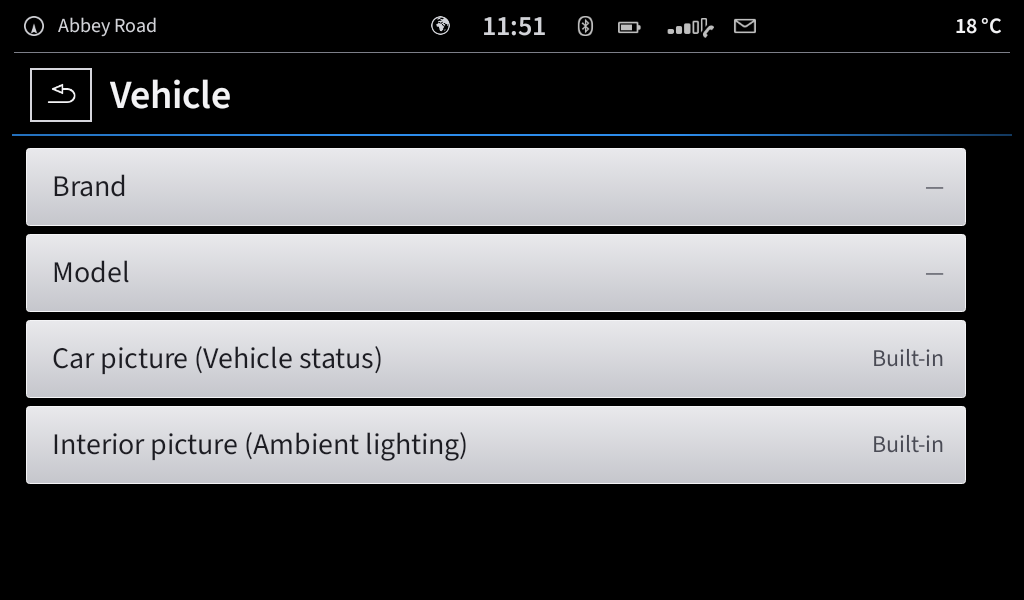
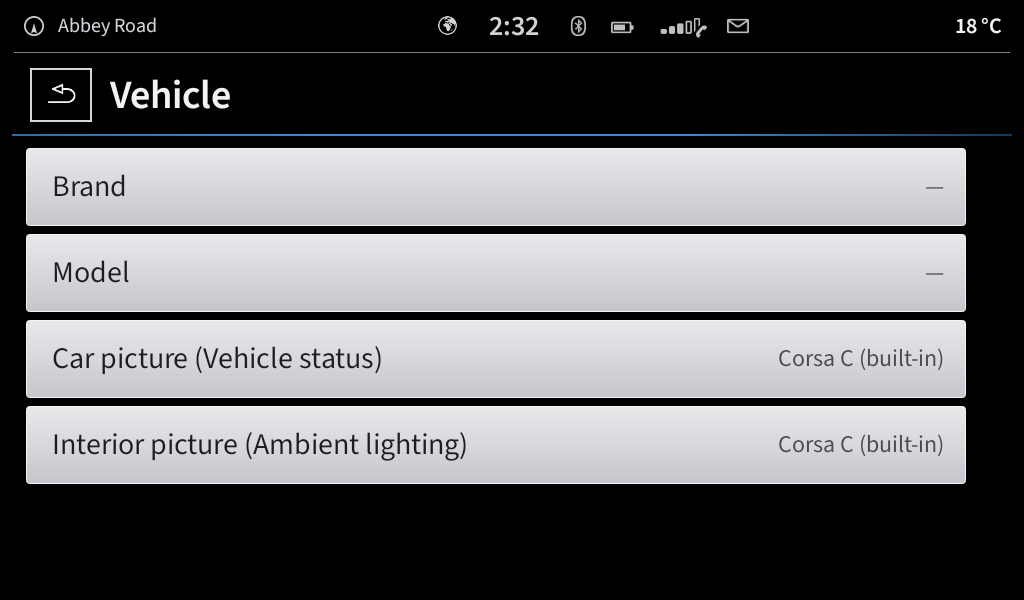
Car pictures: 'No picture selected' by default; Corsa C as a built-in choice
Until a picture is chosen, Vehicle status and Ambient lighting show an amber
warning triangle with 'No picture selected' and where to choose one. The
picture page in Setup -> Vehicle offers Corsa C (built-in), No picture, and
importing a picture from the unit or USB. Pictures imported earlier are kept.

Claude-Session: https://claude.ai/code/session_0111hCwS1Z8expNncaE3Z6rw

diff --git a/app/src/main/java/com/thecarlauncher/util/CarImages.java b/app/src/main/java/com/thecarlauncher/util/CarImages.java
@@ -5,15 +5,21 @@ import android.graphics.Bitmap;
 import android.graphics.BitmapFactory;
 import android.net.Uri;
 
+import android.graphics.Canvas;
+import android.graphics.Paint;
+import android.graphics.Path;
+
 import com.thecarlauncher.R;
+import com.thecarlauncher.mib.Mib;
 
 import java.io.File;
 import java.io.FileOutputStream;
 import java.io.InputStream;
 
 /**
- * The car pictures used around the launcher (Vehicle status, ambient lighting). The owner can
- * replace either one with a picture from the unit's storage; otherwise the built-in ones are used.
+ * The car pictures used around the launcher (Vehicle status, ambient lighting). Until one is
+ * chosen in Setup → Vehicle a "no picture selected" placeholder is shown. The choice is either a
+ * built-in set (Corsa C) or a picture imported from the unit's storage.
  */
 public final class CarImages {
     public static final int EXTERIOR = 0, INTERIOR = 1;
@@ -25,16 +31,85 @@ public final class CarImages {
         return new File(c.getFilesDir(), which == EXTERIOR ? "car_exterior.png" : "car_interior.jpg");
     }
 
-    public static boolean isCustom(Context c, int which) { return file(c, which).exists(); }
+    public static final String NONE = "none", BUILTIN = "corsa_c", CUSTOM = "custom";
 
-    /** The owner's picture if set, else the built-in one. */
+    private static String key(int which) { return which == EXTERIOR ? "car_img_exterior" : "car_img_interior"; }
+
+    /** NONE, BUILTIN or CUSTOM. */
+    public static String mode(Context c, int which) {
+        String m = Prefs.str(c, key(which), null);
+        if (m == null) m = file(c, which).exists() ? CUSTOM : NONE; // pictures imported before this setting
+        if (CUSTOM.equals(m) && !file(c, which).exists()) m = NONE;
+        return m;
+    }
+
+    public static boolean isCustom(Context c, int which) { return CUSTOM.equals(mode(c, which)); }
+
+    /** Short description for the settings row. */
+    public static String label(Context c, int which) {
+        String m = mode(c, which);
+        if (BUILTIN.equals(m)) return Mib.t(c, "Corsa C (ugrađena)", "Corsa C (built-in)");
+        if (CUSTOM.equals(m)) return Mib.t(c, "Uvezena slika", "Imported picture");
+        return Mib.t(c, "Nije izabrana", "Not selected");
+    }
+
+    /** The chosen picture, or the "no picture selected" placeholder. */
     public static Bitmap get(Context c, int which) {
-        File f = file(c, which);
-        if (f.exists()) {
-            Bitmap b = BitmapFactory.decodeFile(f.getPath());
+        String m = mode(c, which);
+        if (CUSTOM.equals(m)) {
+            Bitmap b = BitmapFactory.decodeFile(file(c, which).getPath());
             if (b != null) return b;
+        } else if (BUILTIN.equals(m)) {
+            return builtin(c, which);
         }
+        return placeholder(c, which);
+    }
+
+    public static Bitmap builtin(Context c, int which) {
         return BitmapFactory.decodeResource(c.getResources(), which == EXTERIOR ? R.drawable.car_exterior : R.drawable.car_interior);
+    }
+
+    public static void useBuiltin(Context c, int which) {
+        file(c, which).delete();
+        Prefs.put(c, key(which), BUILTIN);
+    }
+
+    /** Amber warning triangle with "No picture selected" and where to choose one. */
+    public static Bitmap placeholder(Context c, int which) {
+        int w = 1200, h = 720;
+        Bitmap b = Bitmap.createBitmap(w, h, Bitmap.Config.ARGB_8888);
+        Canvas cv = new Canvas(b);
+        if (which == INTERIOR) cv.drawColor(0xFF0B0B0E);
+        float cx = which == EXTERIOR ? w * 0.55f : w / 2f, top = which == EXTERIOR ? h * 0.30f : h * 0.24f;
+        float side = 190f, th = side * 0.866f;
+        Paint p = new Paint(Paint.ANTI_ALIAS_FLAG);
+        p.setColor(0xFFF2A516);
+        p.setStyle(Paint.Style.STROKE);
+        p.setStrokeWidth(14f);
+        p.setStrokeJoin(Paint.Join.ROUND);
+        Path tri = new Path();
+        tri.moveTo(cx, top);
+        tri.lineTo(cx + side / 2f, top + th);
+        tri.lineTo(cx - side / 2f, top + th);
+        tri.close();
+        cv.drawPath(tri, p);
+        p.setStyle(Paint.Style.FILL);
+        p.setStrokeCap(Paint.Cap.ROUND);
+        cv.drawRoundRect(new android.graphics.RectF(cx - 8, top + th * 0.32f, cx + 8, top + th * 0.70f), 8, 8, p);
+        cv.drawCircle(cx, top + th * 0.84f, 10f, p);
+        Paint t = new Paint(Paint.ANTI_ALIAS_FLAG);
+        t.setTextAlign(Paint.Align.CENTER);
+        t.setColor(0xFFFFFFFF);
+        t.setTextSize(54f);
+        try {
+            t.setTypeface(Mib.semibold(c));
+        } catch (Exception ignored) {
+        }
+        cv.drawText(Mib.t(c, "Nije izabrana slika", "No picture selected"), cx, top + th + 90f, t);
+        t.setColor(0xFFB9BBC3);
+        t.setTextSize(36f);
+        cv.drawText(Mib.t(c, "Podešavanje → Vozilo", "Setup → Vehicle"), cx, top + th + 145f, t);
+        return b;
     }
 
     /** Copies a picked image (scaled down to at most 1600 px); true when it was usable. */
@@ -58,13 +133,16 @@ public final class CarImages {
             // PNG keeps a cut-out car's transparent background; the cabin photo is a JPEG.
             b.compress(which == EXTERIOR ? Bitmap.CompressFormat.PNG : Bitmap.CompressFormat.JPEG, 92, fo);
             fo.close();
+            Prefs.put(c, key(which), CUSTOM);
             return true;
         } catch (Exception e) {
             return false;
         }
     }
 
+    /** Back to "no picture selected". */
     public static void reset(Context c, int which) {
         file(c, which).delete();
+        Prefs.put(c, key(which), NONE);
     }
 }

diff --git a/app/src/main/java/com/thecarlauncher/screens/SettingsScreen.java b/app/src/main/java/com/thecarlauncher/screens/SettingsScreen.java
@@ -905,27 +905,10 @@ public class SettingsScreen extends Screen {
         });
     }
 
-    /** Choose a picture from storage, or go back to the built-in one. */
+    /** Opens the picture page: built-in Corsa C, no picture, or one imported from storage. */
     private void pictureRow(String label, final int which) {
-        final boolean custom = com.thecarlauncher.util.CarImages.isCustom(act, which);
-        action(label, custom ? s("Sopstvena slika", "Own picture") : s("Ugrađena", "Built-in"), new Runnable() {
-            public void run() {
-                if (!custom) {
-                    pick(which);
-                    return;
-                }
-                Dialogs.choose(act, s("Slika", "Picture"), new String[]{s("Izaberi drugu sliku", "Choose another picture"),
-                        s("Vrati ugrađenu", "Back to built-in")}, -1, new Dialogs.Chosen() {
-                    public void onChosen(int i) {
-                        if (i == 0) pick(which);
-                        else {
-                            com.thecarlauncher.util.CarImages.reset(act, which);
-                            act.carPicturesChanged();
-                            refreshKeep();
-                        }
-                    }
-                });
-            }
+        action(label, com.thecarlauncher.util.CarImages.label(act, which), new Runnable() {
+            public void run() { pick(which); }
         });
     }
 
@@ -984,6 +967,36 @@ public class SettingsScreen extends Screen {
                 }
             });
         }
+        final String mode = com.thecarlauncher.util.CarImages.mode(act, which);
+        // Built-in set, then "none", then importing.
+        LinearLayout corsa = choice(s("Corsa C (ugrađena)", "Corsa C (built-in)"),
+                com.thecarlauncher.util.CarImages.BUILTIN.equals(mode), new Runnable() {
+                    public void run() {
+                        com.thecarlauncher.util.CarImages.useBuiltin(act, which);
+                        pictureApplied();
+                    }
+                });
+        ImageView ct = new ImageView(act);
+        ct.setScaleType(ImageView.ScaleType.CENTER_CROP);
+        ct.setBackgroundColor(0xFF2A2A30);
+        ct.setImageBitmap(builtinThumb(which));
+        LinearLayout.LayoutParams ctl = new LinearLayout.LayoutParams(Mib.px(act, 88), Mib.px(act, 62));
+        ctl.rightMargin = Mib.px(act, 18);
+        corsa.addView(ct, 0, ctl);
+        choice(s("Bez slike", "No picture"), com.thecarlauncher.util.CarImages.NONE.equals(mode), new Runnable() {
+            public void run() {
+                com.thecarlauncher.util.CarImages.reset(act, which);
+                pictureApplied();
+            }
+        });
+        TextView imp = Mib.text(act, s("Uvezi sliku sa uređaja ili USB-a:", "Import a picture from the unit or USB:"),
+                24, Mib.regular(act), Mib.GREY);
+        LinearLayout.LayoutParams il = new LinearLayout.LayoutParams(ViewGroup.LayoutParams.MATCH_PARENT,
+                ViewGroup.LayoutParams.WRAP_CONTENT);
+        il.leftMargin = Mib.px(act, 30);
+        il.topMargin = Mib.px(act, 10);
+        il.bottomMargin = Mib.px(act, 10);
+        content.addView(imp, il);
         action(s("Druga aplikacija (galerija, fajl menadžer)", "Another app (gallery, file manager)"), null, new Runnable() {
             public void run() {
                 act.pickImage(which, new LauncherActivity.ImagePicked() {
@@ -1030,6 +1043,25 @@ public class SettingsScreen extends Screen {
         }
     }
 
+    private final android.util.SparseArray<android.graphics.Bitmap> builtinThumbs = new android.util.SparseArray<>();
+
+    private android.graphics.Bitmap builtinThumb(int which) {
+        android.graphics.Bitmap b = builtinThumbs.get(which);
+        if (b == null) {
+            android.graphics.Bitmap full = com.thecarlauncher.util.CarImages.builtin(act, which);
+            b = android.graphics.Bitmap.createScaledBitmap(full, 176, Math.max(1, 176 * full.getHeight() / full.getWidth()), true);
+            builtinThumbs.put(which, b);
+        }
+        return b;
+    }
+
+    /** A choice was made: say so, go back to the vehicle page, rebuild the screens showing it. */
+    private void pictureApplied() {
+        com.thecarlauncher.mib.LoadingBanner.flash("picture-ok", s("Slika je postavljena", "Picture set"), 2000);
+        onBack();
+        act.carPicturesChanged();
+    }
+
     private void usePicture(final int which, final android.net.Uri uri) {
         com.thecarlauncher.mib.LoadingBanner.start("picture-save", s("Čuvanje slike…", "Saving the picture…"));
         new Thread(new Runnable() {
@@ -1042,10 +1074,7 @@ public class SettingsScreen extends Screen {
                             com.thecarlauncher.mib.LoadingBanner.flash("picture-fail", s("Slika ne može da se otvori", "The picture can't be opened"), 2500);
                             return;
                         }
-                        com.thecarlauncher.mib.LoadingBanner.flash("picture-ok", s("Slika je postavljena", "Picture set"), 2000);
-                        // Back to the vehicle page; screens showing the picture are rebuilt.
-                        onBack();
-                        act.carPicturesChanged();
+                        pictureApplied();
                     }
                 });
             }

diff --git a/README.md b/README.md
@@ -71,7 +71,7 @@ Text is in Serbian (Latin) by default; English can be picked under
 - **Drop-down loading banner** for anything that takes a moment (radio scan, reading USB, maps,
   route, phone connecting), soft fade-in on every page, and a back arrow wherever a page has no
   back key of its own.
-- **Own car pictures**: brand, model and the car / interior pictures can be set from storage.
+- **Own car pictures**: brand, model and the car / interior pictures: the built-in Corsa C set or pictures imported from the unit or USB.
 - **True fullscreen** (no Android bars) and a smooth, GPU-accelerated MENU pager.
 
 ---
@@ -291,12 +291,17 @@ enter; no diagnostic adapter is needed.
 | --- | --- | --- | --- |
 | ![Status](docs/screenshots/vehicle-status.png) | ![Refuel](docs/screenshots/vehicle-refuel.png) | ![Fuel](docs/screenshots/vehicle-fuel.png) | ![Service](docs/screenshots/vehicle-service.png) |
 
-*Setup → Vehicle* sets the brand and model and lets you pick your own car picture (Vehicle status)
-and interior picture (Ambient lighting). The launcher lists the pictures itself, with previews,
-from the unit and from USB sticks (newest first), because many head units have no system picker
-that returns a result to a home app; *Another app* still opens the gallery or a file manager. The
-picture is applied straight away and the screens that show it are rebuilt; *Back to built-in*
-restores the original.
+*Setup → Vehicle* sets the brand and model and the car picture (Vehicle status) and interior
+picture (Ambient lighting). Until a picture is chosen, both screens show a warning triangle with
+*No picture selected*. Each picture page offers **Corsa C (built-in)**, **No picture**, and
+**importing** a picture: the launcher lists the pictures itself, with previews, from the unit and
+from USB sticks (newest first), because many head units have no system picker that returns a
+result to a home app; *Another app* still opens the gallery or a file manager. The choice applies
+straight away.
+
+| No picture selected | Choosing a picture |
+| --- | --- |
+| ![No picture](docs/screenshots/vehicle-no-picture.png) | ![Choose a picture](docs/screenshots/settings-picture.png) |
 
 ### Ambient lighting
 
@@ -518,7 +523,7 @@ information shows *robolectric*.
 | Bluetooth devices: list, connect, pair a new phone | New in 4.3.0, needs testing |
 | Back to the previous screen | New in 4.3.1 |
 | Smooth arrow, driving direction up, offline street names | New in 4.4.0, needs testing |
-| Choosing car / interior pictures inside the launcher | New in 4.4.1 |
+| Car / interior pictures: placeholder, built-in Corsa C, import inside the launcher | New in 4.4.2 |
 | UI, MENU, status bar, fullscreen | In daily use |
 | App-Connect connection states and auto-open | New in 3.9.0, needs testing with a phone |
 | Station logos (Radio Browser) | New in 4.0.0, needs testing on the unit's connection |
